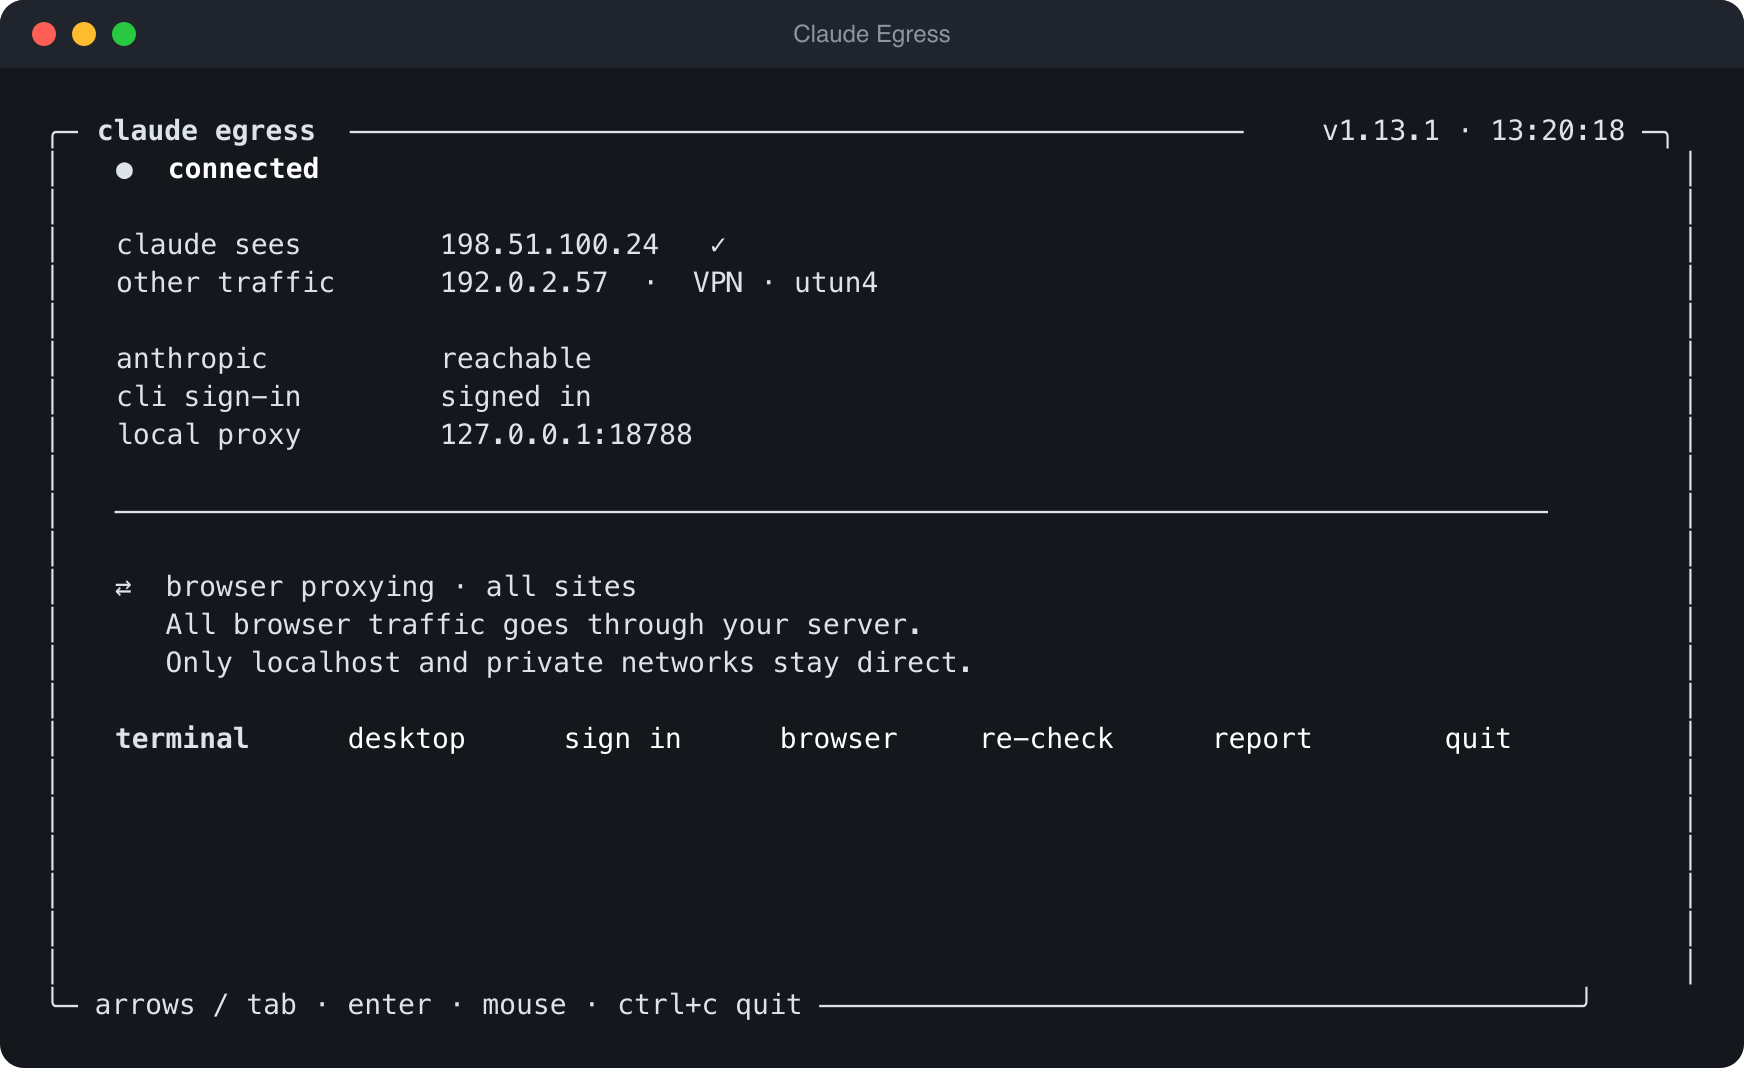
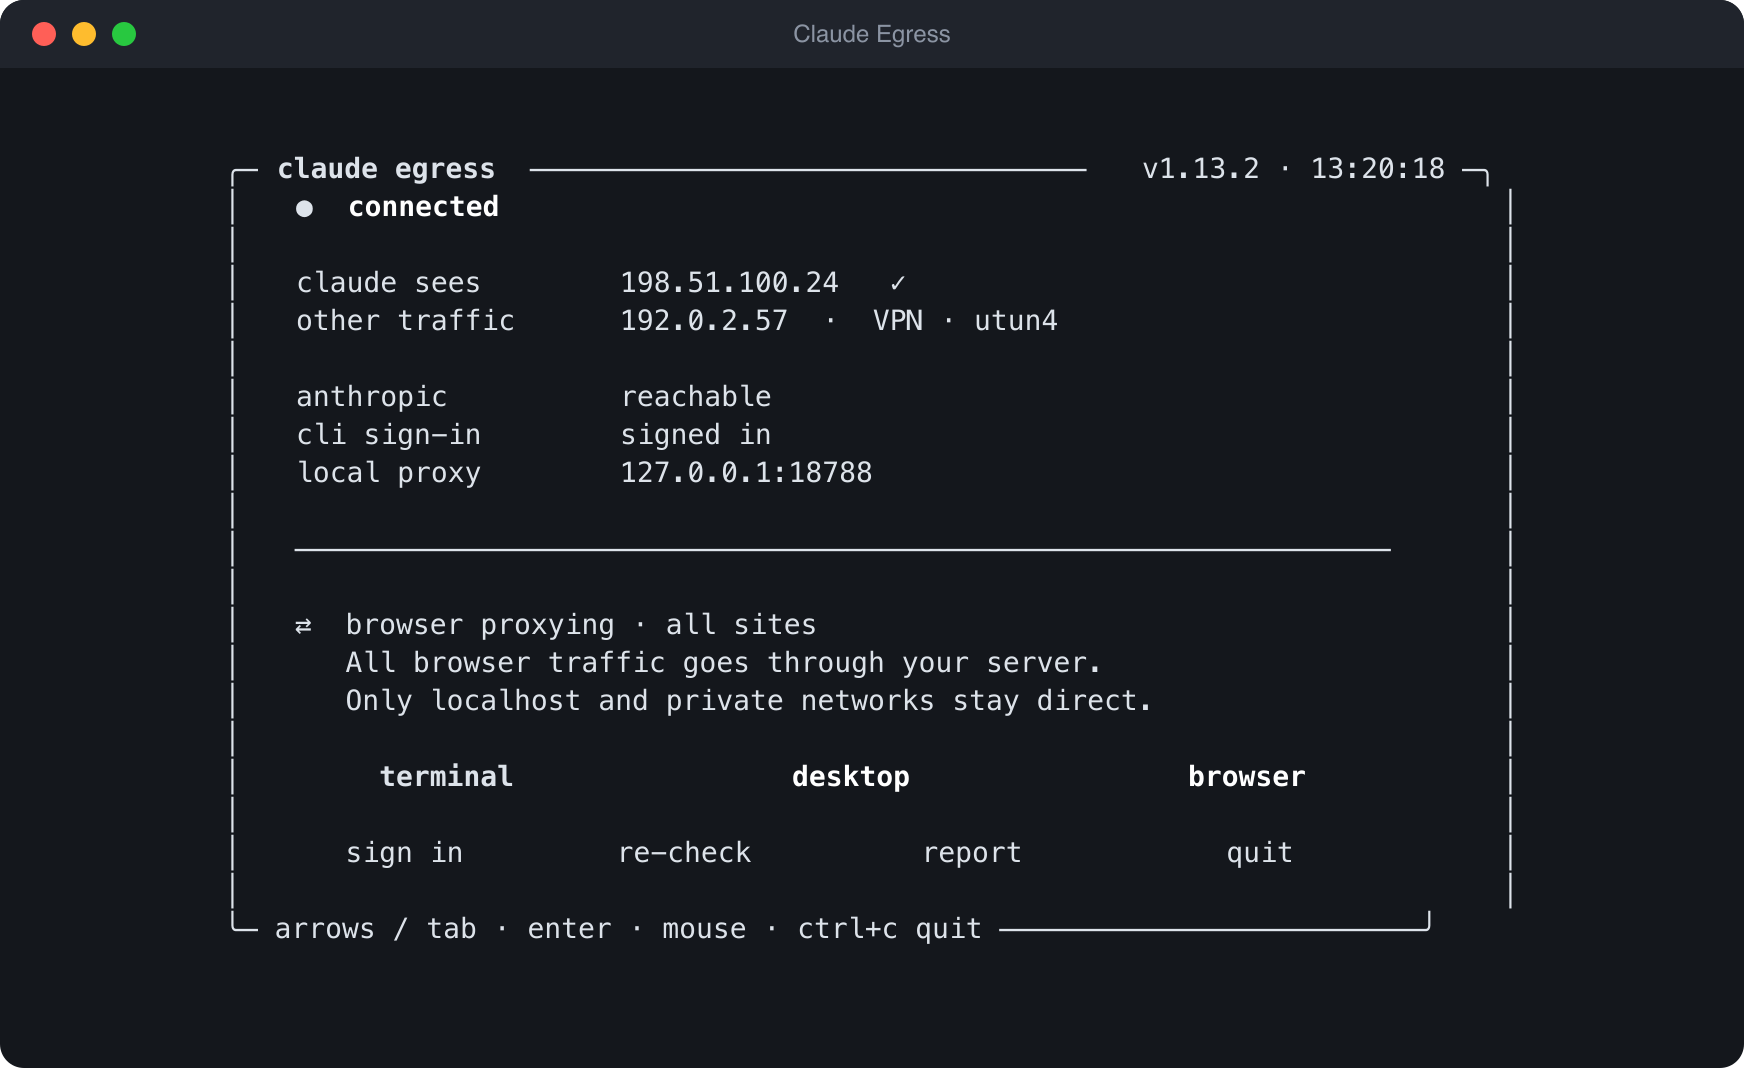
Claude Egress 1.13.2

diff --git a/CHANGELOG.md b/CHANGELOG.md
@@ -2,6 +2,13 @@
 
 Файл проверок — [ACCEPTANCE.md](ACCEPTANCE.md). Здесь только то, что меняется для пользователя.
 
+## 1.13.2
+
+- Окно — компактная карточка шириной до 72 колонок по центру терминала,
+  высотой по содержимому, без пустого поля в большом окне.
+- terminal, desktop и browser стоят первой строкой, остальные действия —
+  тише строкой ниже.
+
 ## 1.13.1
 
 - Повторный запуск Claude Egress, когда окно уже открыто (видимое, свёрнутое
